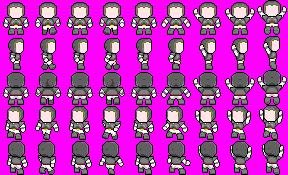
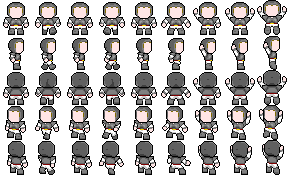
Collide

diff --git a/src/app/app.component.ts b/src/app/app.component.ts
@@ -14,8 +14,19 @@ export class AppComponent {
     title = 'app';
     game: Phaser.Game;
     perso: Phaser.Sprite;
-    speed = 4;
-    time: Date;
+    floor: Phaser.TilemapLayer;
+    blocked: Phaser.TilemapLayer;
+    doorActivators: Phaser.TilemapLayer;
+    doors: Phaser.TilemapLayer;
+    objects: Phaser.TilemapLayer;
+    use: Phaser.TilemapLayer;
+    walls: Phaser.TilemapLayer;
+    speed: number;
+    up = false;
+    down = false;
+    right = false;
+    left = false;
+
 
     constructor() {
         this.game = new Phaser.Game(1536, 1536, Phaser.AUTO, 'content', {
@@ -25,56 +36,179 @@ export class AppComponent {
         });
     }
     preload() {
-        // this.game.time.advancedTiming = true;
-        // this.game.scale.scaleMode = Phaser.ScaleManager.SHOW_ALL;
-        // this.game.scale.pageAlignHorizontally = true;
-        // this.game.scale.pageAlignVertically = true;
-        // this.game.scale.refresh();
+        this.game.scale.scaleMode = Phaser.ScaleManager.SHOW_ALL;
+        this.game.scale.pageAlignHorizontally = true;
+        this.game.scale.pageAlignVertically = true;
+        this.game.scale.refresh();
+
         this.game.load.tilemap('spaceship', 'assets/Spaceship/Spaceship.json', null, Phaser.Tilemap.TILED_JSON);
         this.game.load.image('tiles', 'assets/Spaceship/Spaceship.png');
         this.game.load.spritesheet('perso', 'assets/image/RPGSoldier32x32.png', 32, 35, 45);
+
+        this.speed = 300;
     }
     create() {
+        this.game.physics.startSystem(Phaser.Physics.ARCADE);
+
         this.game.stage.backgroundColor = '#787878';
         const map = this.game.add.tilemap('spaceship');
         map.addTilesetImage('Spaceship 3', 'tiles');
+        map.setCollisionBetween(152);
 
-        const floor = map.createLayer('Floor', 1536, 1536);
-        // floor.resizeWorld();
-        const blocked = map.createLayer('Blocked', 1536, 1536);
-        // blocked.resizeWorld();
-        const doorActivators = map.createLayer('Door_Activators', 1536, 1536);
-        // doorActivators.resizeWorld();
-        const doors = map.createLayer('Doors', 1536, 1536);
-        // doors.resizeWorld();
-        const objects = map.createLayer('Objects', 1536, 1536);
-        // objects.resizeWorld();
-        const use = map.createLayer('Use_Markers', 1536, 1536);
-        // use.resizeWorld();
-        const walls = map.createLayer('Walls', 1536, 1536);
-        // walls.resizeWorld();
+        this.floor = map.createLayer('Floor', 1536, 1536);
+        this.game.add.existing(this.floor);
+        this.floor.resizeWorld();
+        this.blocked = map.createLayer('Blocked', 1536, 1536);
+        this.game.add.existing(this.blocked);
+        this.blocked.resizeWorld();
+        this.doorActivators = map.createLayer('Door_Activators', 1536, 1536);
+        this.game.add.existing(this.doorActivators);
+        this.doorActivators.resizeWorld();
+        this.doors = map.createLayer('Doors', 1536, 1536);
+        this.game.add.existing(this.doors);
+        this.doors.resizeWorld();
+        this.objects = map.createLayer('Objects', 1536, 1536);
+        this.game.add.existing(this.objects);
+        this.objects.resizeWorld();
+        this.use = map.createLayer('Use_Markers', 1536, 1536);
+        this.game.add.existing(this.use);
+        this.use.resizeWorld();
+        this.walls = map.createLayer('Walls', 1536, 1536);
+        this.game.add.existing(this.walls);
+        this.walls.resizeWorld();
+        this.game.scale.refresh();
+
+        // map.setCollisionBetween();
 
         this.perso = this.game.add.sprite(6 * 64, 8 * 64, 'perso');
-        this.perso.animations.add('walk_right', [9, 10, 11, 12], 30, true, true);
-        this.perso.animations.play('walk_right', 30, true);
+        this.game.physics.enable(this.perso);
+        this.perso.body.bounce.y = 0.2;
+        this.perso.body.gravity.y = 0;
+        this.perso.body.collideWorldBounds = true;
+        this.perso.anchor.x = 0.5;
+        this.perso.anchor.y = 0.5;
+        this.perso.scale.setTo(1.9, 1.9);
+        this.perso.animations.add('walk_horizontally', [9, 10, 11, 12], 10, true, true);
+        this.perso.animations.add('walk_up', [18, 19, 20, 21], 10, true, true);
+        this.perso.animations.add('walk_down', [0, 1, 2, 3], 10, true, true);
+        this.perso.animations.add('walk_down_horizontally', [27, 28, 29, 30], 10, true, true);
+        this.perso.animations.add('walk_up_horizontally', [36, 37, 38, 39], 10, true, true);
+        this.perso.frame = 0;
     }
     update() {
-        this.time = new Date();
-        console.log('time : ' + this.time.getUTCSeconds());
-        // if (this.game.input.keyboard.isDown(Phaser.Keyboard.LEFT)) {
-        //     this.perso.x -= 15;
-        //     console.log(this.perso);
-        // } else if (this.game.input.keyboard.isDown(Phaser.Keyboard.RIGHT)) {
-        //     this.perso.x += 15;
-        //     console.log(this.perso);
-        // }
+        this.game.physics.arcade.collide(this.perso, this.walls);
+        this.game.physics.arcade.collide(this.perso, this.blocked, this.collidecb);
 
-        // if (this.game.input.keyboard.isDown(Phaser.Keyboard.UP)) {
-        //     this.perso.y -= 15;
-        //     console.log(this.perso);
-        // } else if (this.game.input.keyboard.isDown(Phaser.Keyboard.DOWN)) {
-        //     this.perso.y += 15;
-        //     console.log(this.perso);
-        // }
+        const cursor = this.game.input.keyboard.createCursorKeys();
+
+        if (cursor.left.isDown) {
+            this.left = true;
+            this.right = false;
+        } else if (cursor.right.isDown) {
+            this.left = false;
+            this.right = true;
+        } else {
+            this.left = false;
+            this.right = false;
+        }
+
+        if (cursor.up.isDown) {
+            this.up = true;
+            this.down = false;
+        } else if (cursor.down.isDown) {
+            this.up = false;
+            this.down = true;
+        } else {
+            this.up = false;
+            this.down = false;
+        }
+
+        this.perso.body.velocity.x = 0;
+        this.perso.body.velocity.y = 0;
+
+        if (this.left) {
+            this.perso.body.velocity.x = this.speed * (-1);
+            if (this.up) {
+                this.perso.body.velocity.y = this.speed * (-1);
+                if (this.perso.animations.name !== 'walk_up_horizontally' || this.perso.animations.paused) {
+                    this.perso.animations.play('walk_up_horizontally', 10, true);
+                    this.perso.animations.paused = false;
+                }
+                if (this.perso.scale.x > 0) {
+                    this.perso.scale.x *= -1;
+                }
+            } else if (this.down) {
+                this.perso.body.velocity.y = this.speed;
+                if (this.perso.animations.name !== 'walk_down_horizontally' || this.perso.animations.paused) {
+                    this.perso.animations.play('walk_down_horizontally', 10, true);
+                    this.perso.animations.paused = false;
+                }
+                if (this.perso.scale.x < 0) {
+                    this.perso.scale.x *= -1;
+                }
+            } else {
+                if (this.perso.animations.name !== 'walk_horizontally' || this.perso.animations.paused) {
+                    this.perso.animations.play('walk_horizontally', 10, true);
+                    this.perso.animations.paused = false;
+                }
+                if (this.perso.scale.x > 0) {
+                    this.perso.scale.x *= -1;
+                }
+            }
+        } else if (this.right) {
+            this.perso.body.velocity.x = this.speed;
+            if (this.up) {
+                this.perso.body.velocity.y = this.speed * (-1);
+                if (this.perso.animations.name !== 'walk_up_horizontally' || this.perso.animations.paused) {
+                    this.perso.animations.play('walk_up_horizontally', 10, true);
+                    this.perso.animations.paused = false;
+                }
+                if (this.perso.scale.x < 0) {
+                    this.perso.scale.x *= -1;
+                }
+            } else if (this.down) {
+                this.perso.body.velocity.y = this.speed;
+                if (this.perso.animations.name !== 'walk_down_horizontally' || this.perso.animations.paused) {
+                    this.perso.animations.play('walk_down_horizontally', 10, true);
+                    this.perso.animations.paused = false;
+                }
+                if (this.perso.scale.x > 0) {
+                    this.perso.scale.x *= -1;
+                }
+            } else {
+                if (this.perso.animations.name !== 'walk_horizontally' || this.perso.animations.paused) {
+                    this.perso.animations.play('walk_horizontally', 10, true);
+                    this.perso.animations.paused = false;
+                }
+                if (this.perso.scale.x < 0) {
+                    this.perso.scale.x *= -1;
+                }
+            }
+        } else if (this.up) {
+            this.perso.body.velocity.y = this.speed * (-1);
+            if (this.perso.animations.name !== 'walk_up' || this.perso.animations.paused) {
+                this.perso.animations.play('walk_up', 10, true);
+                this.perso.animations.paused = false;
+            }
+            if (this.perso.scale.x < 0) {
+                this.perso.scale.x *= -1;
+            }
+        } else if (this.down) {
+            this.perso.body.velocity.y = this.speed;
+            if (this.perso.animations.name !== 'walk_down' || this.perso.animations.paused) {
+                this.perso.animations.play('walk_down', 10, true);
+                this.perso.animations.paused = false;
+            }
+            if (this.perso.scale.x < 0) {
+                this.perso.scale.x *= -1;
+            }
+        } else {
+            this.perso.animations.paused = true;
+            this.perso.frame = 0;
+        }
+    }
+
+    collidecb() {
+        console.log('collide');
     }
 }
